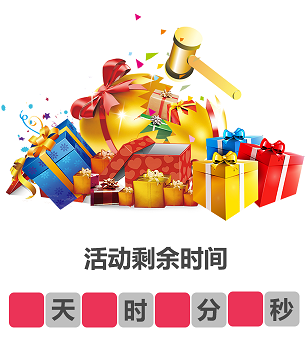
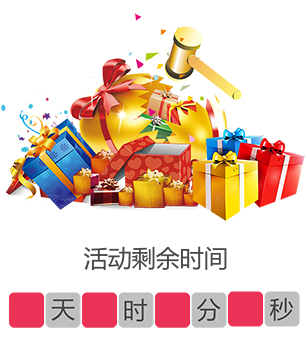
1

diff --git a/Application/Rvact/View/Public/static/css/index.css b/Application/Rvact/View/Public/static/css/index.css
@@ -63,7 +63,7 @@ body {
 }
 .form {
     width: 384px;
-    background: #fbfbfb;
+    background: #fff;
 }
 .form h2 {
     margin-top: 20px;
@@ -129,7 +129,7 @@ body {
     width: 360px;
     padding-right: 41px;
     height: 400px;
-    background: #fbfbfb;
+    background: #fff;
     padding-left: 27px;
 }
 .ticket{
@@ -176,7 +176,7 @@ body {
     /*margin-left: 8px;*/
     padding: 322px 0 10px 38px;
     *display:inline;
-    background: #fbfbfb url("../images/gift2.png") no-repeat 27px 20px;
+    background: #fff url("../images/gift2.png") no-repeat 27px 20px;
 }
 .bm1{
     /*margin-left: 5px;*/

diff --git a/Application/Rvact/View/Index/index_one.html b/Application/Rvact/View/Index/index_one.html
@@ -4,7 +4,7 @@
     <meta http-equiv="Content-Type" content="text/html; charset=utf-8"/>
     <title>{$info.title}</title>
     <link rel="stylesheet" href="__STATIC__/css/neat.css" />
-    <link rel="stylesheet" href="__STATIC__/css/index.css?time=1643" />
+    <link rel="stylesheet" href="__STATIC__/css/index.css?time=1653" />
     <style type="text/css">
         /*.header { background:url("__PUBLIC__/upload/banner/{$info.banner}") no-repeat center top; }*/
         #desc .abstract dd a{color: #3e629f;}
